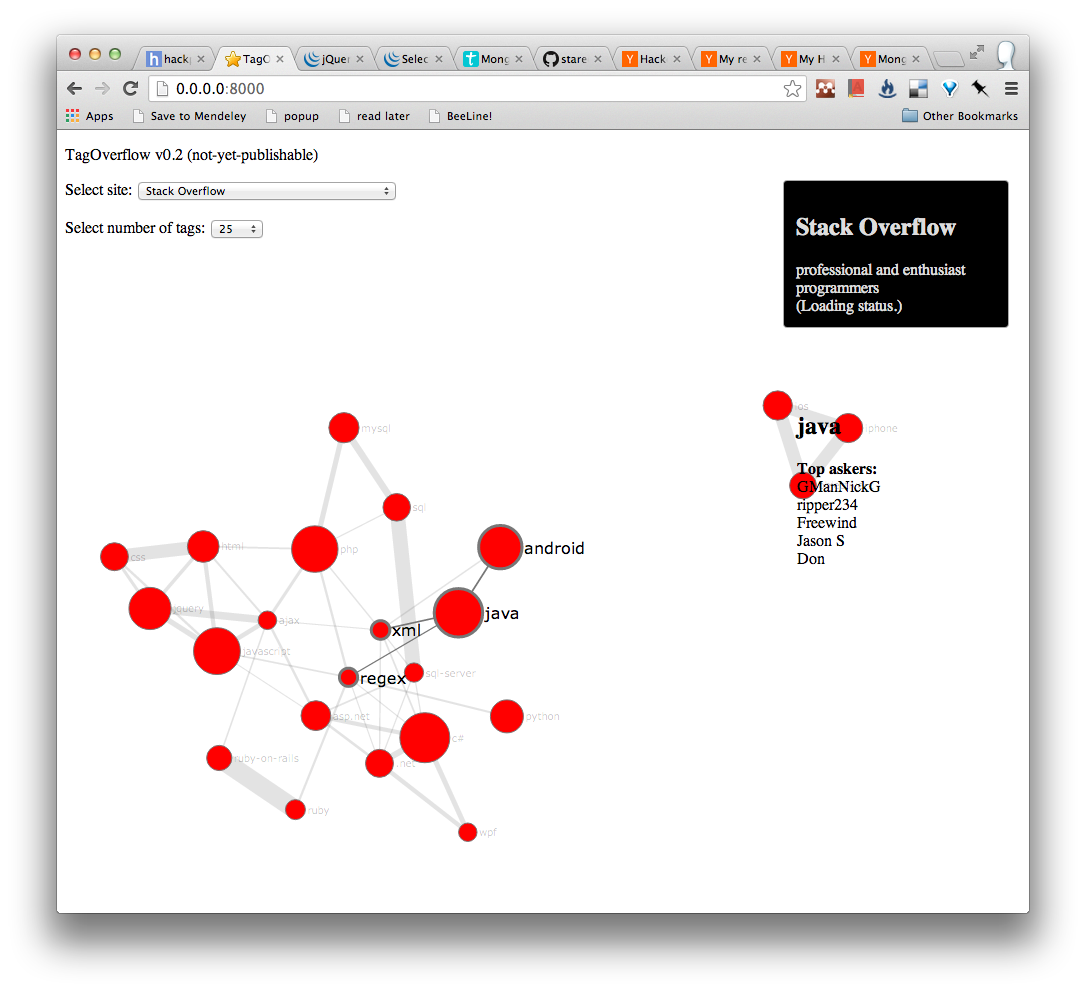
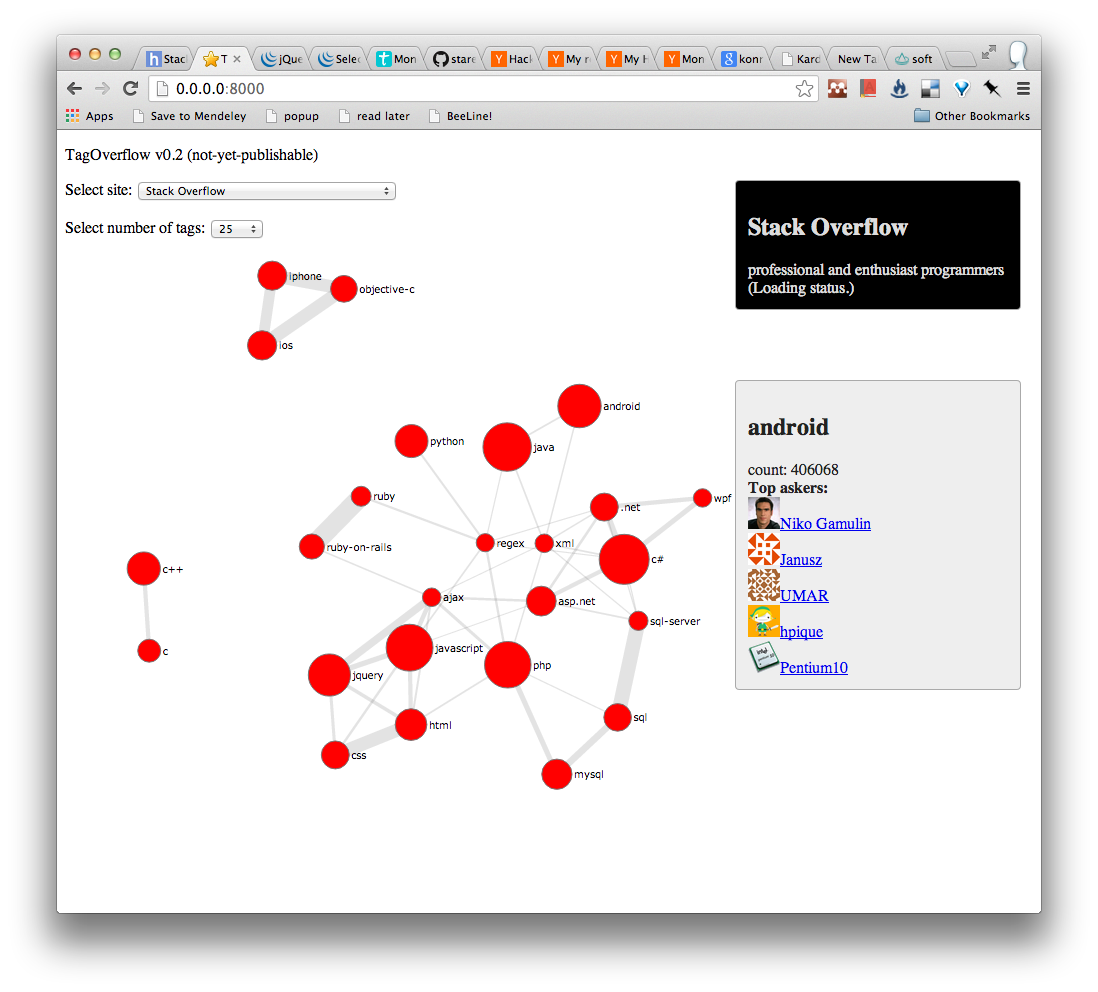
aesthetics minor

diff --git a/index.html b/index.html
@@ -36,6 +36,7 @@
 <div class="tag_info">
   <h2 id="title">(Click on tag!)</h2>
   <div id="dscr">(And here: on the tag.)</div>
+  <div id="askers">(And here: on the tag.)</div>
 </div>
 <script src="http://ajax.googleapis.com/ajax/libs/jquery/1.10.2/jquery.min.js"></script>
 <script src="d3.v3.min.js"></script>
@@ -190,15 +191,14 @@ var force = d3.layout.force()
 
   var click_node = function(z){
     $(".tag_info #title").html(z.name);
-    //$(".tag_info #dscr").html("count: " + z.count);
+    $(".tag_info #dscr").html("count: " + z.count);
     var askers = fetchTopAskers(siteName, z.name);
     var askersNames = "";
     for (var i = 0; i < askers.length; i++)
      {
-     console.log('<a href="' + askers[i].link + '">');
-     askersNames += '<a href="' + askers[i].user.link + '">' + '<img src="' + askers[i].user.profile_image + '" width="50" height="50">' + askers[i].user.display_name + "</a><br/>";
+     askersNames += '<a href="' + askers[i].user.link + '">' + '<img src="' + askers[i].user.profile_image + '" width="32" height="32">' + askers[i].user.display_name + "</a><br/>";
      };
-     $(".tag_info #dscr").html("<b>Top askers:</b><br/>" + askersNames);
+     $(".tag_info #askers").html("<b>Top askers:</b><br/>" + askersNames);
   };
 
 };

diff --git a/tagoverflow.css b/tagoverflow.css
@@ -28,9 +28,9 @@ div.site_info {
 	position: fixed;
 	top: 50px;
 	right: 20px;
-    padding: 12px;
-    width: 200px;
-    background: #000;
+  padding: 12px;
+  width: 260px;
+  background: #000;
 	color: #ddd;
 	border: solid 1px #aaa;
 	border-radius: 4px;
@@ -43,7 +43,13 @@ div.tag_info {
 	position: fixed;
 	top: 250px;
 	right: 20px;
-    padding: 12px;
-    width: 200px;
-    /*overflow-y: auto;*/
+  padding: 12px;
+  width: 260px;
+  background: #eee;
+  color: #222;
+  border: solid 1px #aaa;
+  border-radius: 4px;
+  pointer-events: none;
+  z-index:10;
+  /*overflow-y: auto;*/
 }
